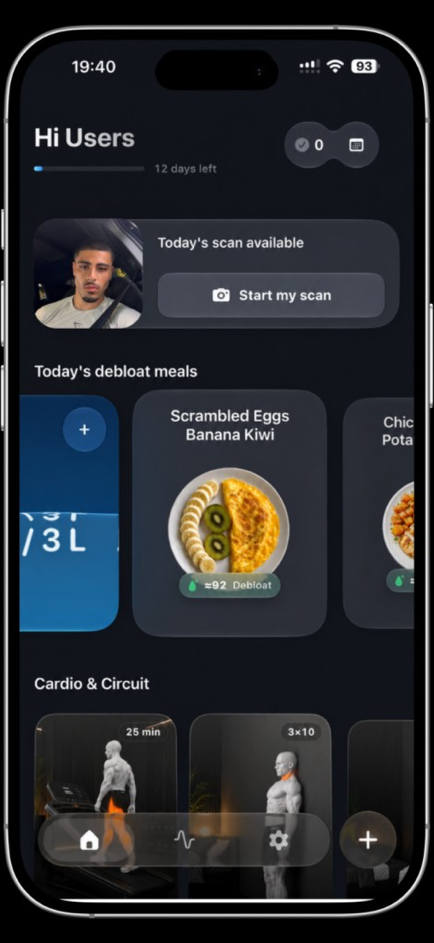
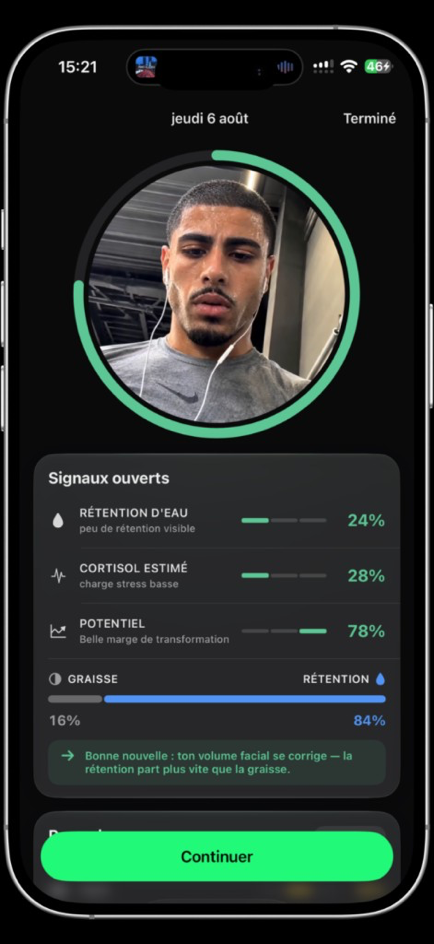
Update hero iPhone mockup, App Store URL, and scroll runway for the phone animation.

diff --git a/website/src/landing-cinematic/fintap-hero-scroll.css b/website/src/landing-cinematic/fintap-hero-scroll.css
@@ -59,6 +59,21 @@
   width: 100%;
 }
 
+/* Runway sous le mockup : laisse assez de scroll pour finir le tilt/zoom (~400–600px). */
+.fintap-hero-iphone__scroll-runway {
+  width: 100%;
+  height: max(72vh, 34rem);
+  flex-shrink: 0;
+  pointer-events: none;
+  visibility: hidden;
+}
+
+@media (min-width: 1024px) {
+  .fintap-hero-iphone__scroll-runway {
+    height: max(85vh, 42rem);
+  }
+}
+
 /* Ancrage nav / deep link : marge sous la barre Liquid Glass */
 #fintap-commerce-onboarding {
   scroll-margin-top: max(5.5rem, calc(env(safe-area-inset-top, 0px) + 4.25rem));
@@ -561,16 +576,19 @@
   #fintap-commerce-onboarding .fintap-hero-iphone__actions-title {
     display: none;
   }
-  /* Le champ est au-dessus du mockup : compacter le panneau bleu (badge en flux sous l’iPhone) */
+  /* Le champ est au-dessus du mockup : garder le panneau compact, le runway gère le scroll anim. */
   .fintap-hero-iphone.fintap-hero-iphone--scroll {
-    --fintap-hero-bottom-bleed: clamp(0.75rem, 2.5vw, 1.35rem);
-    padding-bottom: clamp(0.35rem, 1.2vw, 0.65rem);
+    --fintap-hero-bottom-bleed: clamp(1.25rem, 4vw, 2.5rem);
+    padding-bottom: 0;
   }
   .fintap-hero-iphone__scene {
     margin-top: clamp(5rem, 15vw, 6.75rem);
     min-height: 0;
     padding-top: 0.65rem;
     padding-bottom: clamp(0.35rem, 1.5vw, 0.75rem);
+  }
+  .fintap-hero-iphone__scroll-runway {
+    height: max(78vh, 36rem);
   }
   .fintap-hero-iphone__btn--primary { display: none; }
 }

diff --git a/website/src/landing-cinematic/FinTapHeroScrollSection.jsx b/website/src/landing-cinematic/FinTapHeroScrollSection.jsx
@@ -21,8 +21,8 @@ import "./fintap-hero-blue-surface.css";
 import { FinTapHeroDeskCtas } from "./FinTapHeroDeskCtas.jsx";
 import { FinTapHeroMobileLogo } from "./FinTapHeroMobileLogo.jsx";
 
-const HERO_IPHONE_IMG = "/assets/iphone-custom-clean.png?v=20260808";
-const HERO_IPHONE_IMG_MOBILE = "/assets/iphone-custom-clean-mobile.png?v=20260808";
+const HERO_IPHONE_IMG = "/assets/iphone-custom-clean.png?v=20260808b";
+const HERO_IPHONE_IMG_MOBILE = "/assets/iphone-custom-clean-mobile.png?v=20260808b";
 const TRIGGER_PX = 400;
 const IOS_MOBILE_TRIGGER_PX = 560;
 const DESKTOP_SCROLL_BRAKE_START_RATIO = 0.62;
@@ -575,6 +575,8 @@ export function FinTapHeroScrollSection() {
           </div>
         </div>
       </div>
+      {/* Espace de scroll pour terminer l’anim 3D du mockup (sans contenu visible). */}
+      <div className="fintap-hero-iphone__scroll-runway" aria-hidden="true" />
     </section>
   );
 }

diff --git a/website/src/features/app-store-urls.js b/website/src/features/app-store-urls.js
@@ -1,4 +1,4 @@
-/** URLs App Store — Process AI (iOS). */
+/** URLs App Store — Process (iOS). */
 export function getIosAppStoreUrl() {
   const direct =
     typeof import.meta !== "undefined"
@@ -10,7 +10,7 @@ export function getIosAppStoreUrl() {
       ? String(import.meta.env?.VITE_IOS_APP_STORE_ID || "").trim()
       : "";
   if (id) return `https://apps.apple.com/fr/app/id${id}`;
-  return "https://apps.apple.com/fr/search?term=Process%20AI";
+  return "https://apps.apple.com/fr/app/process-debloat-ton-visage/id6753808143";
 }
 
 export function getAndroidAppStoreUrl() {
